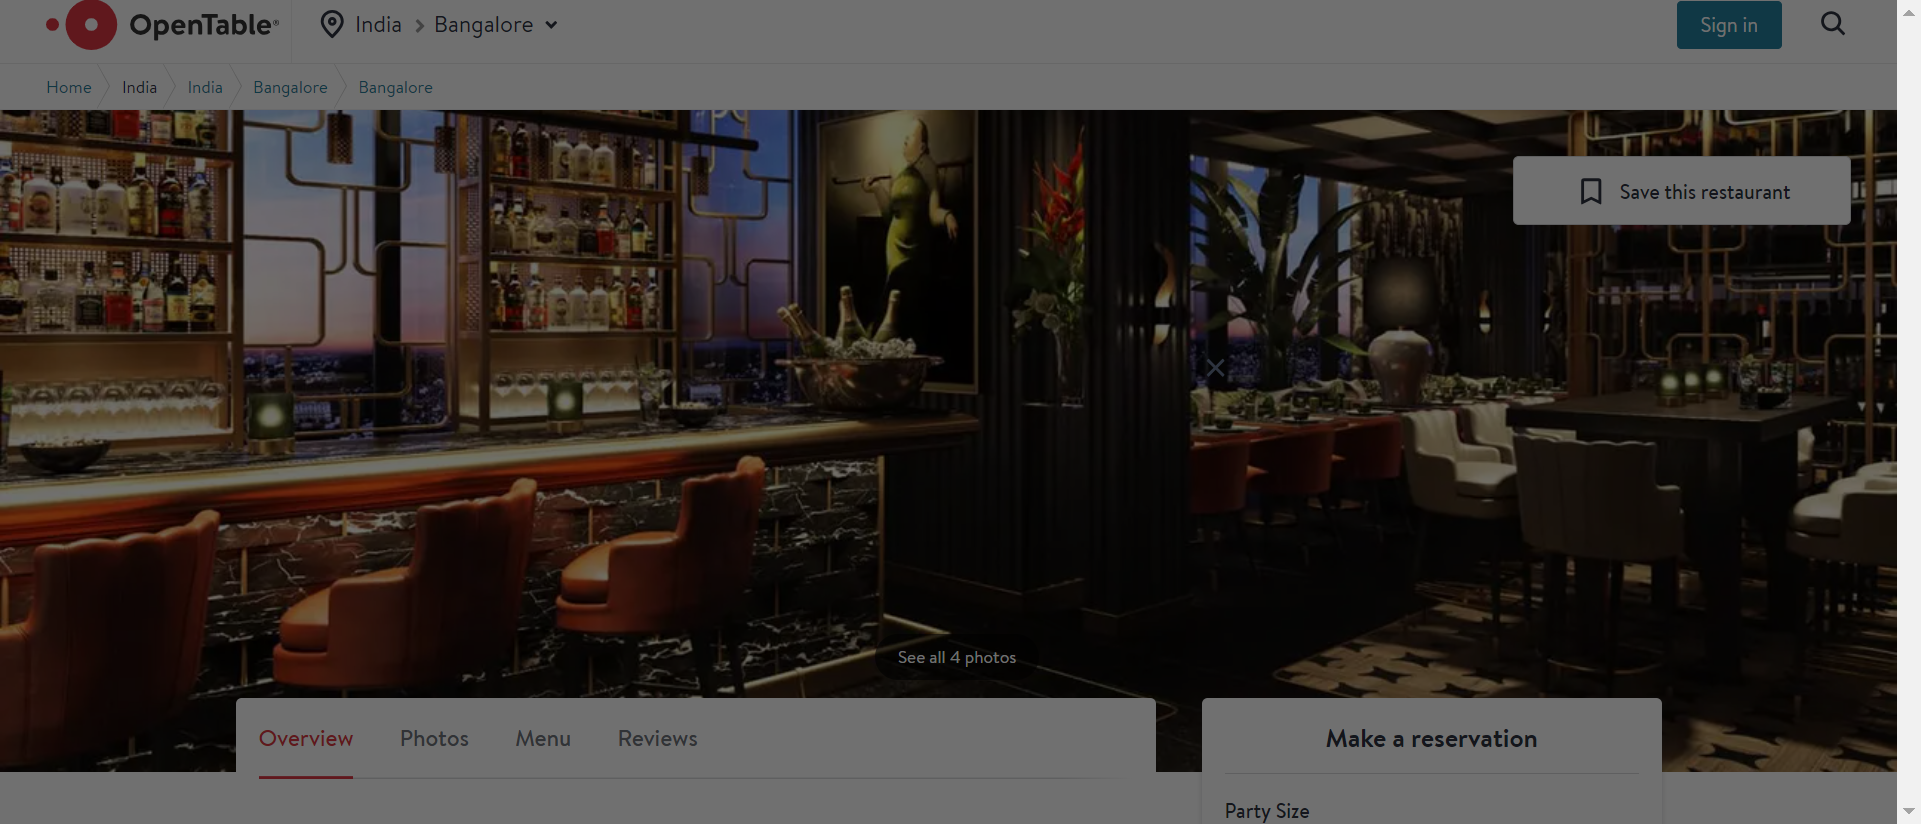
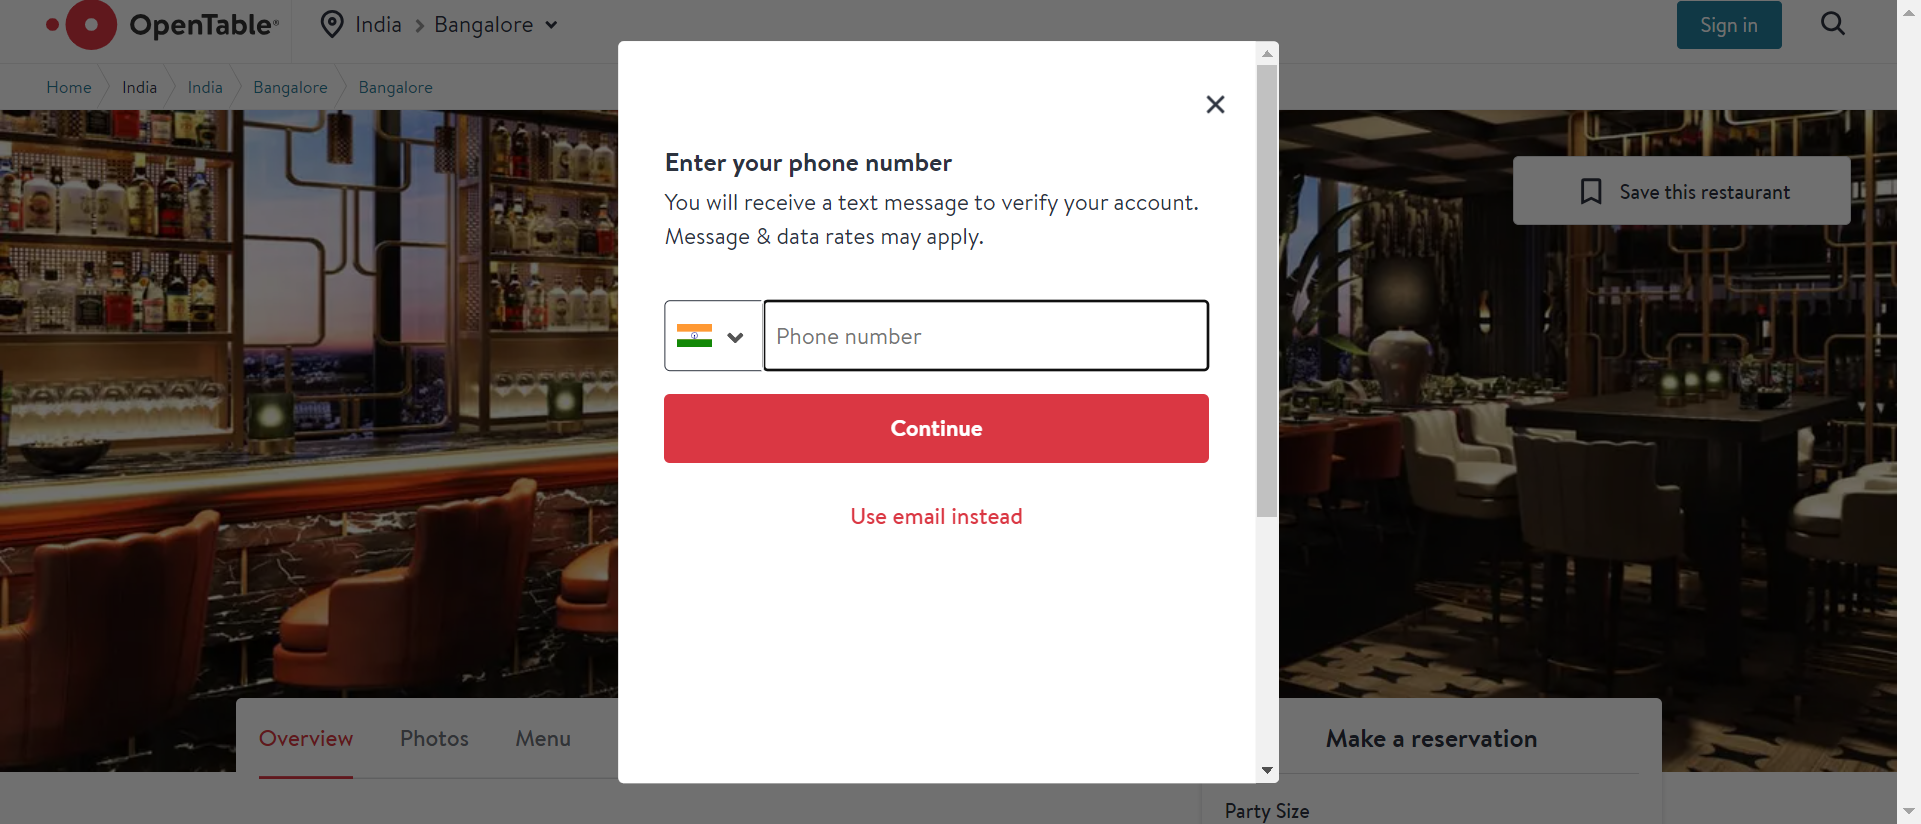
commit

diff --git a/Log4j/exercise2/logs/example.html b/Log4j/exercise2/logs/example.html
@@ -825,3 +825,145 @@ Log session start time Sat Apr 27 14:22:22 IST 2024<br>
 <td title="com.example.AppTest category">com.example.AppTest</td>
 <td title="Message">Make a reservation section has been completed</td>
 </tr>
+<!DOCTYPE HTML PUBLIC "-//W3C//DTD HTML 4.01 Transitional//EN" "http://www.w3.org/TR/html4/loose.dtd">
+<html>
+<head>
+<title>Log4J Log Messages</title>
+<style type="text/css">
+<!--
+body, table {font-family: arial,sans-serif; font-size: x-small;}
+th {background: #336699; color: #FFFFFF; text-align: left;}
+-->
+</style>
+</head>
+<body bgcolor="#FFFFFF" topmargin="6" leftmargin="6">
+<hr size="1" noshade>
+Log session start time Sat Apr 27 14:24:15 IST 2024<br>
+<br>
+<table cellspacing="0" cellpadding="4" border="1" bordercolor="#224466" width="100%">
+<tr>
+<th>Time</th>
+<th>Thread</th>
+<th>Level</th>
+<th>Category</th>
+<th>Message</th>
+</tr>
+
+<tr>
+<td>0</td>
+<td title="main thread">main</td>
+<td title="Level">INFO</td>
+<td title="com.example.AppTest category">com.example.AppTest</td>
+<td title="Message">The data from sheet is passed successfully</td>
+</tr>
+
+<tr>
+<td>3437</td>
+<td title="main thread">main</td>
+<td title="Level">INFO</td>
+<td title="com.example.AppTest category">com.example.AppTest</td>
+<td title="Message">The page has been redirected and displayed the list of hotels in the Bangalore</td>
+</tr>
+
+<tr>
+<td>5593</td>
+<td title="main thread">main</td>
+<td title="Level">INFO</td>
+<td title="com.example.AppTest category">com.example.AppTest</td>
+<td title="Message">The Asian filter has been applied and the page shows results based on that filter</td>
+</tr>
+
+<tr>
+<td>5824</td>
+<td title="main thread">main</td>
+<td title="Level">INFO</td>
+<td title="com.example.AppTest category">com.example.AppTest</td>
+<td title="Message">A new tab has been opened</td>
+</tr>
+
+<tr>
+<td>8204</td>
+<td title="main thread">main</td>
+<td title="Level">INFO</td>
+<td title="com.example.AppTest category">com.example.AppTest</td>
+<td title="Message">The window has been switched</td>
+</tr>
+
+<tr>
+<td>22567</td>
+<td title="main thread">main</td>
+<td title="Level">INFO</td>
+<td title="com.example.AppTest category">com.example.AppTest</td>
+<td title="Message">Make a reservation section has been completed</td>
+</tr>
+<!DOCTYPE HTML PUBLIC "-//W3C//DTD HTML 4.01 Transitional//EN" "http://www.w3.org/TR/html4/loose.dtd">
+<html>
+<head>
+<title>Log4J Log Messages</title>
+<style type="text/css">
+<!--
+body, table {font-family: arial,sans-serif; font-size: x-small;}
+th {background: #336699; color: #FFFFFF; text-align: left;}
+-->
+</style>
+</head>
+<body bgcolor="#FFFFFF" topmargin="6" leftmargin="6">
+<hr size="1" noshade>
+Log session start time Sat Apr 27 14:26:05 IST 2024<br>
+<br>
+<table cellspacing="0" cellpadding="4" border="1" bordercolor="#224466" width="100%">
+<tr>
+<th>Time</th>
+<th>Thread</th>
+<th>Level</th>
+<th>Category</th>
+<th>Message</th>
+</tr>
+
+<tr>
+<td>0</td>
+<td title="main thread">main</td>
+<td title="Level">INFO</td>
+<td title="com.example.AppTest category">com.example.AppTest</td>
+<td title="Message">The data from sheet is passed successfully</td>
+</tr>
+
+<tr>
+<td>3330</td>
+<td title="main thread">main</td>
+<td title="Level">INFO</td>
+<td title="com.example.AppTest category">com.example.AppTest</td>
+<td title="Message">The page has been redirected and displayed the list of hotels in the Bangalore</td>
+</tr>
+
+<tr>
+<td>5475</td>
+<td title="main thread">main</td>
+<td title="Level">INFO</td>
+<td title="com.example.AppTest category">com.example.AppTest</td>
+<td title="Message">The Asian filter has been applied and the page shows results based on that filter</td>
+</tr>
+
+<tr>
+<td>5647</td>
+<td title="main thread">main</td>
+<td title="Level">INFO</td>
+<td title="com.example.AppTest category">com.example.AppTest</td>
+<td title="Message">A new tab has been opened</td>
+</tr>
+
+<tr>
+<td>8024</td>
+<td title="main thread">main</td>
+<td title="Level">INFO</td>
+<td title="com.example.AppTest category">com.example.AppTest</td>
+<td title="Message">The window has been switched</td>
+</tr>
+
+<tr>
+<td>22594</td>
+<td title="main thread">main</td>
+<td title="Level">INFO</td>
+<td title="com.example.AppTest category">com.example.AppTest</td>
+<td title="Message">Make a reservation section has been completed</td>
+</tr>

diff --git a/Log4j/exercise2/target/surefire-reports/emailable-report.html b/Log4j/exercise2/target/surefire-reports/emailable-report.html
@@ -9,9 +9,9 @@
 <table>
 <tr><th>Test</th><th># Passed</th><th># Skipped</th><th># Retried</th><th># Failed</th><th>Time (ms)</th><th>Included Groups</th><th>Excluded Groups</th></tr>
 <tr><th colspan="8">Surefire suite</th></tr>
-<tr><td><a href="#t0">Surefire test</a></td><td class="num">1</td><td class="num">0</td><td class="num">0</td><td class="num">0</td><td class="num">31,126</td><td></td><td></td></tr>
+<tr><td><a href="#t0">Surefire test</a></td><td class="num">1</td><td class="num">0</td><td class="num">0</td><td class="num">0</td><td class="num">37,019</td><td></td><td></td></tr>
 </table>
-<table id='summary'><thead><tr><th>Class</th><th>Method</th><th>Start</th><th>Time (ms)</th></tr></thead><tbody><tr><th colspan="4">Surefire suite</th></tr></tbody><tbody id="t0"><tr><th colspan="4">Surefire test &#8212; passed</th></tr><tr class="passedeven"><td rowspan="1">com.example.AppTest</td><td><a href="#m0">testCase1</a></td><td rowspan="1">1714207942743</td><td rowspan="1">25684</td></tr></tbody>
+<table id='summary'><thead><tr><th>Class</th><th>Method</th><th>Start</th><th>Time (ms)</th></tr></thead><tbody><tr><th colspan="4">Surefire suite</th></tr></tbody><tbody id="t0"><tr><th colspan="4">Surefire test &#8212; passed</th></tr><tr class="passedeven"><td rowspan="1">com.example.AppTest</td><td><a href="#m0">testCase1</a></td><td rowspan="1">1714208165107</td><td rowspan="1">30516</td></tr></tbody>
 </table>
 <h2>Surefire test</h2><h3 id="m0">com.example.AppTest#testCase1</h3><table class="result"><tr><th class="invisible"/></tr></table><p class="totop"><a href="#summary">back to summary</a></p>
 </body>

diff --git a/Log4j/exercise2/target/surefire-reports/index.html b/Log4j/exercise2/target/surefire-reports/index.html
@@ -188,12 +188,12 @@ data.addRows(1);
 data.setCell(0, 0, 0)
 data.setCell(0, 1, 'testCase1')
 data.setCell(0, 2, 'com.example.AppTest')
-data.setCell(0, 3, 25684);
+data.setCell(0, 3, 30516);
 window.suiteTableData['Surefire_suite']= { tableData: data, tableDiv: 'times-div-Surefire_suite'}
 return data;
 }
               </script>
-              <span class="suite-total-time">Total running time: 25 seconds</span>
+              <span class="suite-total-time">Total running time: 30 seconds</span>
               <div id="times-div-Surefire_suite">
               </div> <!-- times-div-Surefire_suite -->
             </div> <!-- times-div -->
@@ -226,11 +226,11 @@ return data;
               </div> <!-- configuration-test before -->
               <div class="test-method">
                 <span class="method-name">testCase1</span>
-                <span class="method-start">4819 ms</span>
+                <span class="method-start">5910 ms</span>
               </div> <!-- test-method -->
               <div class="configuration-test after">
                 <span class="method-name">quit</span>
-                <span class="method-start">30510 ms</span>
+                <span class="method-start">36434 ms</span>
               </div> <!-- configuration-test after -->
           </div> <!-- main-panel-content rounded-window-bottom -->
         </div> <!-- panel -->

diff --git a/Log4j/exercise2/target/surefire-reports/Surefire suite/Surefire test.html b/Log4j/exercise2/target/surefire-reports/Surefire suite/Surefire test.html
@@ -57,9 +57,9 @@ function toggleAllBoxes() {
 <tr>
 <td>Tests passed/Failed/Skipped:</td><td>1/0/0</td>
 </tr><tr>
-<td>Started on:</td><td>Sat Apr 27 14:22:17 IST 2024</td>
+<td>Started on:</td><td>Sat Apr 27 14:25:59 IST 2024</td>
 </tr>
-<tr><td>Total time:</td><td>31 seconds (31126 ms)</td>
+<tr><td>Total time:</td><td>37 seconds (37019 ms)</td>
 </tr><tr>
 <td>Included groups:</td><td></td>
 </tr><tr>
@@ -78,7 +78,7 @@ function toggleAllBoxes() {
 <tr>
 <td title='com.example.AppTest.testCase1()'><b>testCase1</b><br>Test class: com.example.AppTest</td>
 <td></td>
-<td>25</td>
+<td>30</td>
 <td>com.example.AppTest@1ed1993a</td></tr>
 </table><p>
 </body>

diff --git a/Log4j/exercise2/src/test/java/com/example/AppTest.java b/Log4j/exercise2/src/test/java/com/example/AppTest.java
@@ -22,7 +22,6 @@ import org.testng.annotations.AfterTest;
 import org.testng.annotations.BeforeTest;
 import org.testng.annotations.Test;
 
-import com.aventstack.extentreports.reporter.configuration.Theme;
 
 import io.github.bonigarcia.wdm.WebDriverManager;
 
@@ -91,10 +90,11 @@ public class AppTest
         }
         Select time = new Select(driver.findElement(By.xpath("//*[@id=\"restProfileSideBartimePickerDtpPicker\"]")));
         time.selectByVisibleText("6:30 PM");
+        Thread.sleep(2000);
         driver.findElement(By.xpath("//*[@id=\"mainContent\"]/div/div[2]/div[2]/div/article/div/div[5]/button")).click();
         log.info("Make a reservation section has been completed");
         driver.findElement(By.xpath("//*[@id=\"baseApp\"]/div/header/div[2]/div[2]/div[1]/button")).click();
-        Thread.sleep(2000);
+        Thread.sleep(5000);
         TakesScreenshot screenshot1 = (TakesScreenshot) driver;
         File source1 = screenshot1.getScreenshotAs(OutputType.FILE);
         String path1 = "C:\\Users\\91701\\Desktop\\it sckcet\\softwareTesting-1\\Log4j\\exercise2\\signin.png";
